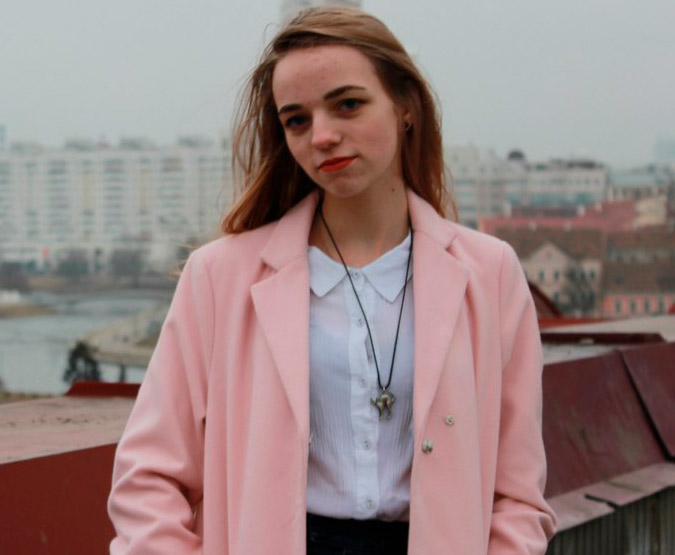
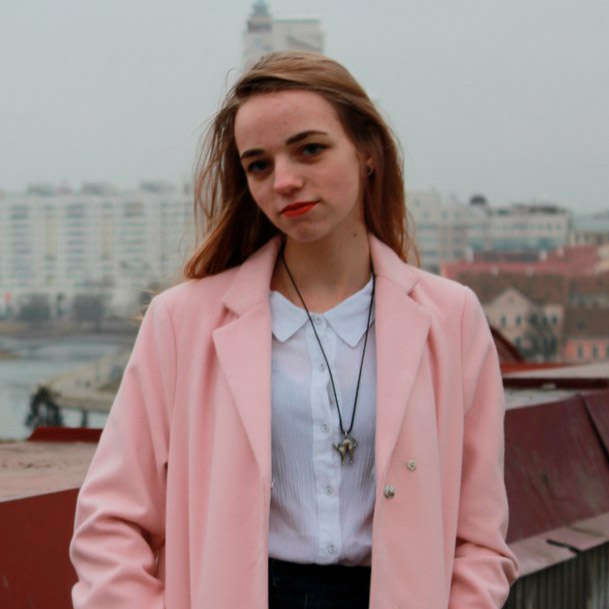
feat: add main

diff --git a/index.html b/index.html
@@ -9,22 +9,87 @@
   </head>
   <body class="cvBody">
     <header class="headerContainer">
-      <div>
         <div class="photoContainer">
-          <div class="headerLine">
-  
-          </div>
           <img src="./assets/img/avatar.jpg" alt="avatar" class="avatar">
-        </div>
       </div>
       <div class="nameContainer"> 
         <h1 class="headerTitle"> Svetlana </h1>
         <h1 class="headerTitle"> Kostrykina </h1>
-        <h3> Future front-end developer </h3>
+        <h2 class="headerSubtitle"> Future front-end developer </h2>
       </div>
     </header>
-    <main>
-      main
+    <main class="mainContent">
+      <div class="mainLeft">
+        <div >
+          <div>My Contacts</div>
+          <ul class="listContacts ">
+            <li>
+              <img src="./assets/img/icon_tg.png" alt="icon Telegram" class="iconContacts"/>
+              <span>@sashavna</span>
+            </li>
+            <li>
+              <img src="./assets/img/icon_github.png" alt="icon Github" class="iconContacts"/>
+              <span>sashavna</span>
+            </li>
+            <li>
+              <img src="./assets/img/icon_location.png" alt="icon Location" class="iconContacts"/>
+              <span>Belarus, Minsk</span>
+            </li>
+          </ul>
+        </div>
+        <div>
+          <div>Education</div>
+          <div>
+            <div>
+              <div>University:</div>
+              <div>Belarusian National Technical University</div>
+            </div>
+            <div>
+              <div>Courses:</div>
+              <div>3D Artist, VFX artist</div>
+            </div>
+          </div>
+        </div>
+        <div> 
+          <div>Experience</div>
+          <div>
+            <div>I work as a graphic designer</div>
+            <div>RS Schools Course «JavaScript/Front-end. Stage 0» (in progress)</div>
+          </div>
+        </div>
+      </div>
+      <div class="mainRight">
+        <div>
+          <div>About me</div>
+          <div>Since my last year at university and during my work, 
+            I have been trying to find what I want to do and, as 
+            a result, change my job. I studied different directions in 
+            design, but after a long stagnation, I am trying a 
+            completely new area for myself - programming. I think 
+            that my strengths are assiduity and responsibility, I am 
+            not afraid of learning new things. So my goal is to find 
+            a hobby-job that I will really enjoy.</div>
+        </div>
+        <div>
+          <div>Skills</div>
+          <ul>
+            <li>HTML(basic)</li>
+          </ul>
+          <ul>
+            <li>CSS(basic)</li>
+          </ul>
+          <ul>
+            <li>Adobe Photoshop, Illustrator, 3ds Max</li>
+          </ul>
+        </div>
+        <div>
+          <div>Code Examples</div>
+        </div>
+        <div>
+          <div>English</div>
+          <div>A2-B1 (In the process  of learning English, I practise my skills with my English tutor)</div>
+        </div>
+      </div>
     </main>
     <footer>
       footer

diff --git a/style.css b/style.css
@@ -1,18 +1,8 @@
 @font-face {
-    font-family: 'OpenSans-Light';
-    src: url("./assets/fonts/OpenSans-Light.ttf");
-    font-weight: 300;
-}
-@font-face {
-    font-family: 'OpenSans-Regular';
+    font-family: 'OpenSans';
     src: url("./assets/fonts/OpenSans-Regular.ttf");
-    font-weight: 400;
+    
 }
-@font-face {
-    font-family: 'OpenSans-SemiBold';
-    src: url("./assets/fonts/OpenSans-SemiBold.ttf");
-    font-weight: 600;
-  }
 .cvBody {
     max-width: 75%;
     margin: 0 auto;
@@ -22,27 +12,66 @@
         display: flex;
         
         .photoContainer {
-            flex-grow: 1;
+            min-width: 35%;
+            width: 35%;
+            background-color: #9f779f;
+
 
             .avatar {
-                width: 100%;
-                height: 300px;
+                width: 80%;
+                border-radius: 50%;
+                padding: 40px;
             }
-            .headerLine {
-                width: 100%;
-                height: 50px;
-                background-color: #e0a9ab;
-            }
+            
         }
         
         .nameContainer {
-            flex-grow: 3;
+            width: 65%;
             padding-left: 50px;
             margin: auto 0;
             
             .headerTitle {
                  font-weight: 600;
+                 font-size: 60px;
+                 margin: 0;
+                 
             }
+            
+            .headerSubtitle {
+                font-weight: 600;
+                font-size: 25px;
+                margin: 0;
+                padding-top: 10px;
+            }
+        }
+    }
+    .mainContent {
+        display: flex;
+        height: 100%;
+
+        .mainLeft {
+            background-color: #eaeaea;
+            width: 35%;
+            height: 100%;
+            /* padding: px; */
+
+            .listContacts {
+                list-style: none;
+                margin: 0 auto;
+                padding-left: 15px;
+               
+                .iconContacts{
+                    width: 40px;
+                    height: 40px;
+                    vertical-align:middle;
+                }                                
+            }
+            
+        }
+
+        .mainRight {
+            width: 65%;
+            height: 100%;
         }
     }
 }
